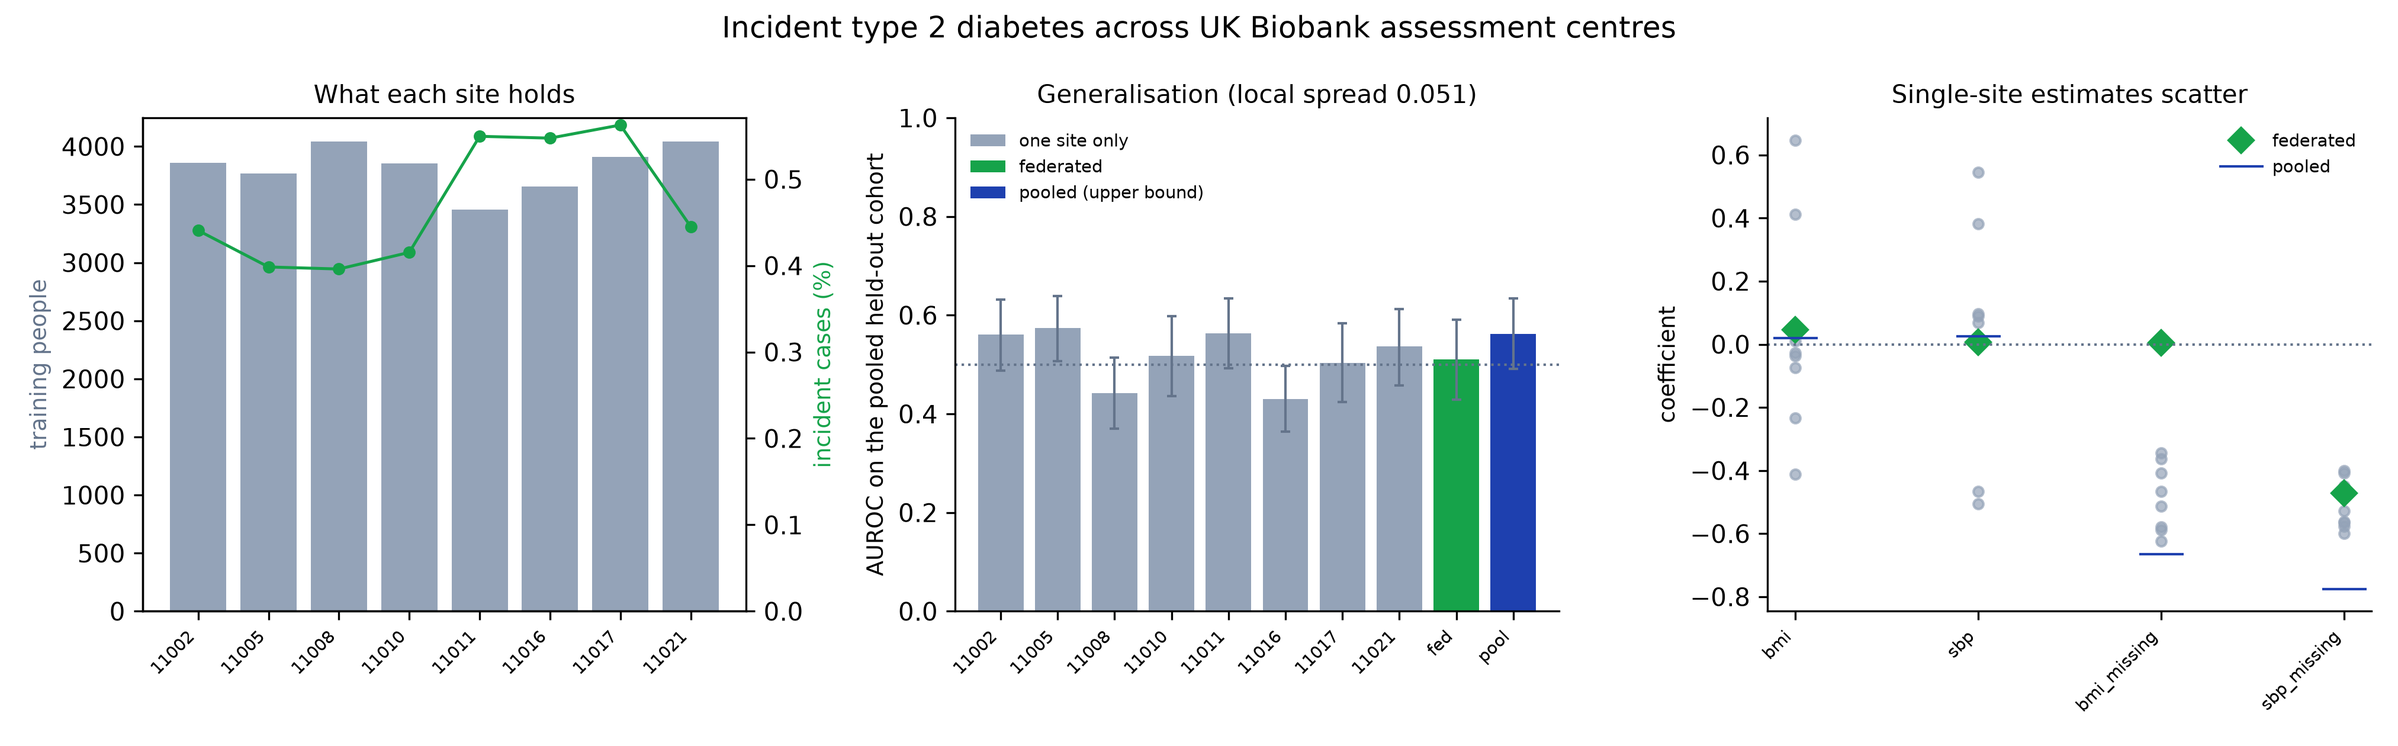
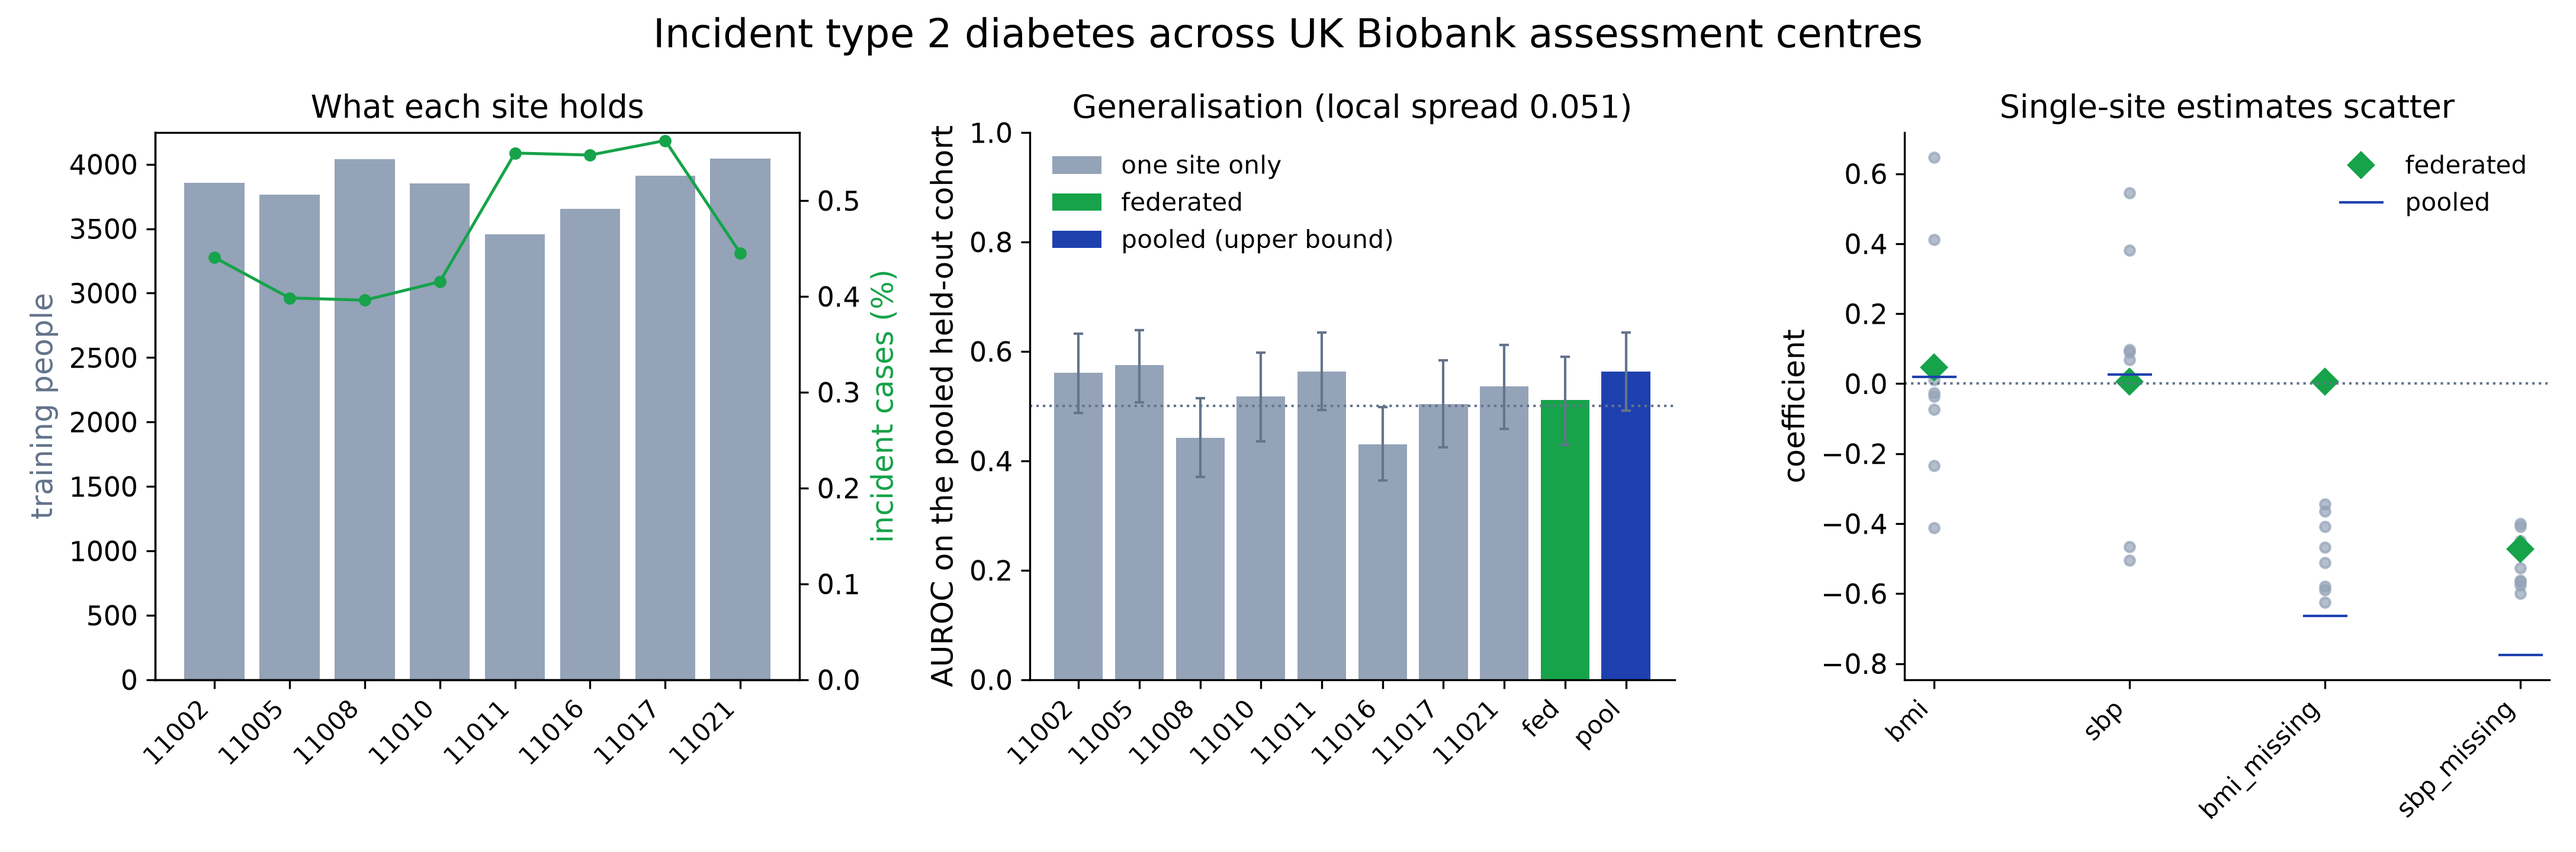
Raise the figure font sizes for readability

diff --git a/examples/ukb_diabetes/explore.py b/examples/ukb_diabetes/explore.py
@@ -18,6 +18,8 @@ from cohort import CANDIDATES, LOOKBACK_DAYS, VOCABULARY_VERSION, index_table, s
 
 import omopflare as of
 
+plt.rcParams.update({"xtick.labelsize": 11, "ytick.labelsize": 11})
+
 HERE = Path(__file__).parent
 SITE, ACCENT, CASE, MUTED = "#94a3b8", "#16a34a", "#b91c1c", "#64748b"
 DIVERGING = "RdBu_r"
@@ -124,15 +126,15 @@ def funnel(axis: plt.Axes, stages: dict[str, int]) -> None:
     names, values = list(stages), list(stages.values())
     axis.barh(range(len(names)), values, color=[SITE] * (len(names) - 1) + [CASE])
     axis.set_yticks(range(len(names)))
-    axis.set_yticklabels(names, fontsize=8)
+    axis.set_yticklabels(names, fontsize=11)
     axis.invert_yaxis()
-    axis.set_ylabel("cohort rule", fontsize=9)
+    axis.set_ylabel("cohort rule", fontsize=12)
     axis.set_xscale("log")
-    axis.set_xlabel("people (log scale)", fontsize=9)
+    axis.set_xlabel("people (log scale)", fontsize=12)
     for position, value in enumerate(values):
-        axis.text(value * 1.2, position, f"{value:,}", va="center", fontsize=7, color=MUTED)
+        axis.text(value * 1.2, position, f"{value:,}", va="center", fontsize=10, color=MUTED)
     axis.set_xlim(right=max(values) * 6)
-    axis.set_title("Who is left to train on", fontsize=10)
+    axis.set_title("Who is left to train on", fontsize=13)
 
 
 def case_rate(axis: plt.Axes, edata: EHRData) -> None:
@@ -149,14 +151,14 @@ def case_rate(axis: plt.Axes, edata: EHRData) -> None:
     axis.hlines(positions, pooled, rates, color=SITE, linewidth=1)
     axis.scatter(rates, positions, s=np.sqrt(sizes) * 2.5, color=CASE, zorder=3)
     axis.axvline(pooled, color=MUTED, linewidth=1)
-    axis.text(pooled, -0.75, f" pooled {pooled:.2f}%", fontsize=7, color=MUTED, va="bottom")
+    axis.text(pooled, -0.75, f" pooled {pooled:.2f}%", fontsize=10, color=MUTED, va="bottom")
     axis.set_yticks(positions)
-    axis.set_yticklabels([name.replace("centre_", "") for name in rates.index], fontsize=7)
+    axis.set_yticklabels([name.replace("centre_", "") for name in rates.index], fontsize=10)
     axis.set_ylim(len(rates) - 0.5, -1.0)
-    axis.set_ylabel("site", fontsize=9)
-    axis.set_xlabel("incident cases (%)", fontsize=9)
+    axis.set_ylabel("site", fontsize=12)
+    axis.set_xlabel("incident cases (%)", fontsize=12)
     axis.set_xlim(0, max(rates.max() * 1.25, pooled * 2))
-    axis.set_title("Case rate by site", fontsize=10)
+    axis.set_title("Case rate by site", fontsize=13)
 
 
 def plausibility(axis: plt.Axes, values: np.ndarray, feature: of.Feature) -> None:
@@ -175,11 +177,11 @@ def plausibility(axis: plt.Axes, values: np.ndarray, feature: of.Feature) -> Non
         axis.axvline(edge, color=ACCENT, linewidth=1)
     axis.set_xscale("log")
     axis.set_yscale("log")
-    axis.set_xlabel(f"{feature.name}, as recorded", fontsize=9)
-    axis.set_ylabel("readings (log scale)", fontsize=9)
+    axis.set_xlabel(f"{feature.name}, as recorded", fontsize=12)
+    axis.set_ylabel("readings (log scale)", fontsize=12)
     kept = float(((positive >= low) & (positive <= high)).mean())
-    axis.text(0.98, 0.92, f"the range keeps {kept:.0%}", transform=axis.transAxes, ha="right", fontsize=7, color=MUTED)
-    axis.set_title(f"{feature.name} against the plausible range", fontsize=10)
+    axis.text(0.98, 0.92, f"the range keeps {kept:.0%}", transform=axis.transAxes, ha="right", fontsize=10, color=MUTED)
+    axis.set_title(f"{feature.name} against the plausible range", fontsize=13)
 
 
 def separation(axis: plt.Axes, edata: EHRData, feature: str) -> None:
@@ -206,12 +208,12 @@ def separation(axis: plt.Axes, edata: EHRData, feature: str) -> None:
         color=CASE,
         label=f"case ({(observed & case).sum():,})",
     )
-    axis.set_xlabel(feature, fontsize=9)
-    axis.set_ylabel("density", fontsize=9)
-    axis.legend(fontsize=7, frameon=False)
+    axis.set_xlabel(feature, fontsize=12)
+    axis.set_ylabel("density", fontsize=12)
+    axis.legend(fontsize=10, frameon=False)
     difference = float(np.nanmean(values[case]) - np.nanmean(values[~case])) / float(np.nanstd(values))
-    axis.text(0.98, 0.72, f"cases {difference:+.2f} SD", transform=axis.transAxes, ha="right", fontsize=7, color=MUTED)
-    axis.set_title(f"{feature}, cases and controls", fontsize=10)
+    axis.text(0.98, 0.72, f"cases {difference:+.2f} SD", transform=axis.transAxes, ha="right", fontsize=10, color=MUTED)
+    axis.set_title(f"{feature}, cases and controls", fontsize=13)
 
 
 def main() -> None:
@@ -230,14 +232,14 @@ def main() -> None:
     print(differences.round(3).to_string())
 
     second = spec.features[1]
-    figure, axes = plt.subplots(2, 2, figsize=(11, 8.0))
+    figure, axes = plt.subplots(2, 2, figsize=(12, 9.0))
     funnel(axes[0, 0], stages)
     case_rate(axes[0, 1], edata)
     plausibility(axes[1, 0], raw_values(paths, second), second)
     separation(axes[1, 1], edata, second.name)
     for axis in axes.ravel():
         axis.spines[["top", "right"]].set_visible(False)
-    figure.suptitle(args.title, fontsize=12)
+    figure.suptitle(args.title, fontsize=16)
     figure.tight_layout()
     figure.savefig(args.out, dpi=300)
     print(f"wrote {args.out}")

diff --git a/examples/ukb_diabetes/figures.py b/examples/ukb_diabetes/figures.py
@@ -12,6 +12,8 @@ import numpy as np
 matplotlib.use("Agg")
 import matplotlib.pyplot as plt
 
+plt.rcParams.update({"xtick.labelsize": 11, "ytick.labelsize": 11})
+
 HERE = Path(__file__).parent
 LOCAL, FEDERATED, POOLED, MUTED = "#94a3b8", "#16a34a", "#1e40af", "#64748b"
 
@@ -31,14 +33,14 @@ def heterogeneity(axis: plt.Axes, results: dict) -> None:
     sizes = [results["sites"][name]["train"] for name in names]
     incidence = [100 * results["incidence"][name] for name in names]
     axis.bar(range(len(names)), sizes, color=LOCAL)
-    axis.set_ylabel("training people", color=MUTED, fontsize=9)
+    axis.set_ylabel("training people", color=MUTED, fontsize=12)
     axis.set_xticks(range(len(names)))
-    axis.set_xticklabels([name.replace("centre_", "") for name in names], rotation=45, ha="right", fontsize=7)
+    axis.set_xticklabels([name.replace("centre_", "") for name in names], rotation=45, ha="right", fontsize=10)
     twin = axis.twinx()
     twin.plot(range(len(names)), incidence, "o-", color=FEDERATED, markersize=4, linewidth=1.2)
-    twin.set_ylabel("incident cases (%)", color=FEDERATED, fontsize=9)
+    twin.set_ylabel("incident cases (%)", color=FEDERATED, fontsize=12)
     twin.set_ylim(bottom=0)
-    axis.set_title("What each site holds", fontsize=10)
+    axis.set_title("What each site holds", fontsize=13)
 
 
 def generalisation(axis: plt.Axes, results: dict) -> None:
@@ -62,14 +64,14 @@ def generalisation(axis: plt.Axes, results: dict) -> None:
     axis.axhline(0.5, color=MUTED, linestyle=":", linewidth=1)
     axis.set_xticks(range(len(order)))
     axis.set_xticklabels(
-        [name.replace("centre_", "") for name in names] + ["fed", "pool"], rotation=45, ha="right", fontsize=7
+        [name.replace("centre_", "") for name in names] + ["fed", "pool"], rotation=45, ha="right", fontsize=10
     )
-    axis.set_ylabel("AUROC on the pooled held-out cohort", fontsize=9)
+    axis.set_ylabel("AUROC on the pooled held-out cohort", fontsize=12)
     axis.set_ylim(0.0, 1.0)
-    axis.legend(fontsize=7, frameon=False, loc="upper left")
+    axis.legend(fontsize=10, frameon=False, loc="upper left")
     axis.set_xlim(-0.8, len(order) - 0.2)
     spread = np.nanstd(local)
-    axis.set_title(f"Generalisation (local spread {spread:.3f})", fontsize=10)
+    axis.set_title(f"Generalisation (local spread {spread:.3f})", fontsize=13)
 
 
 def coefficients(axis: plt.Axes, results: dict) -> None:
@@ -89,10 +91,10 @@ def coefficients(axis: plt.Axes, results: dict) -> None:
     axis.plot(positions, results["coefficients"]["pooled"], "_", color=POOLED, markersize=18, label="pooled")
     axis.axhline(0.0, color=MUTED, linestyle=":", linewidth=1)
     axis.set_xticks(positions)
-    axis.set_xticklabels(features, rotation=45, ha="right", fontsize=7)
-    axis.set_ylabel("coefficient", fontsize=9)
-    axis.legend(fontsize=7, frameon=False)
-    axis.set_title("Single-site estimates scatter", fontsize=10)
+    axis.set_xticklabels(features, rotation=45, ha="right", fontsize=10)
+    axis.set_ylabel("coefficient", fontsize=12)
+    axis.legend(fontsize=10, frameon=False)
+    axis.set_title("Single-site estimates scatter", fontsize=13)
 
 
 def draw(results: dict, out: Path, title: str) -> None:
@@ -103,13 +105,13 @@ def draw(results: dict, out: Path, title: str) -> None:
         out: Where to write the PNG.
         title: Figure title.
     """
-    figure, axes = plt.subplots(1, 3, figsize=(13.5, 4.2))
+    figure, axes = plt.subplots(1, 3, figsize=(14.5, 4.8))
     heterogeneity(axes[0], results)
     generalisation(axes[1], results)
     coefficients(axes[2], results)
     for axis in axes:
         axis.spines[["top", "right"]].set_visible(False)
-    figure.suptitle(title, fontsize=12)
+    figure.suptitle(title, fontsize=16)
     figure.tight_layout()
     figure.savefig(out, dpi=300)
     print(f"wrote {out}")
